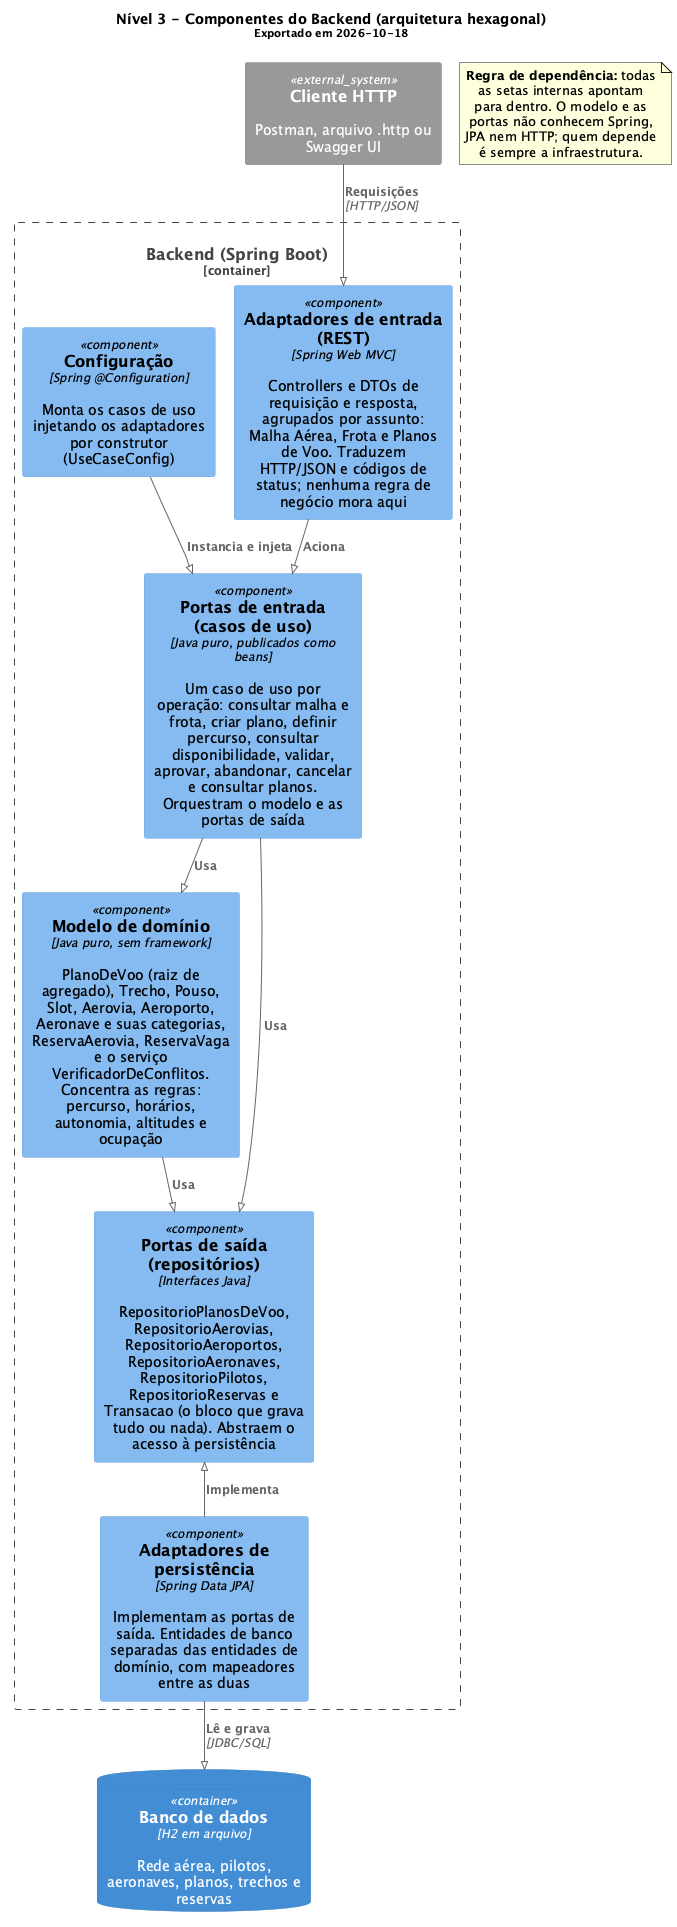
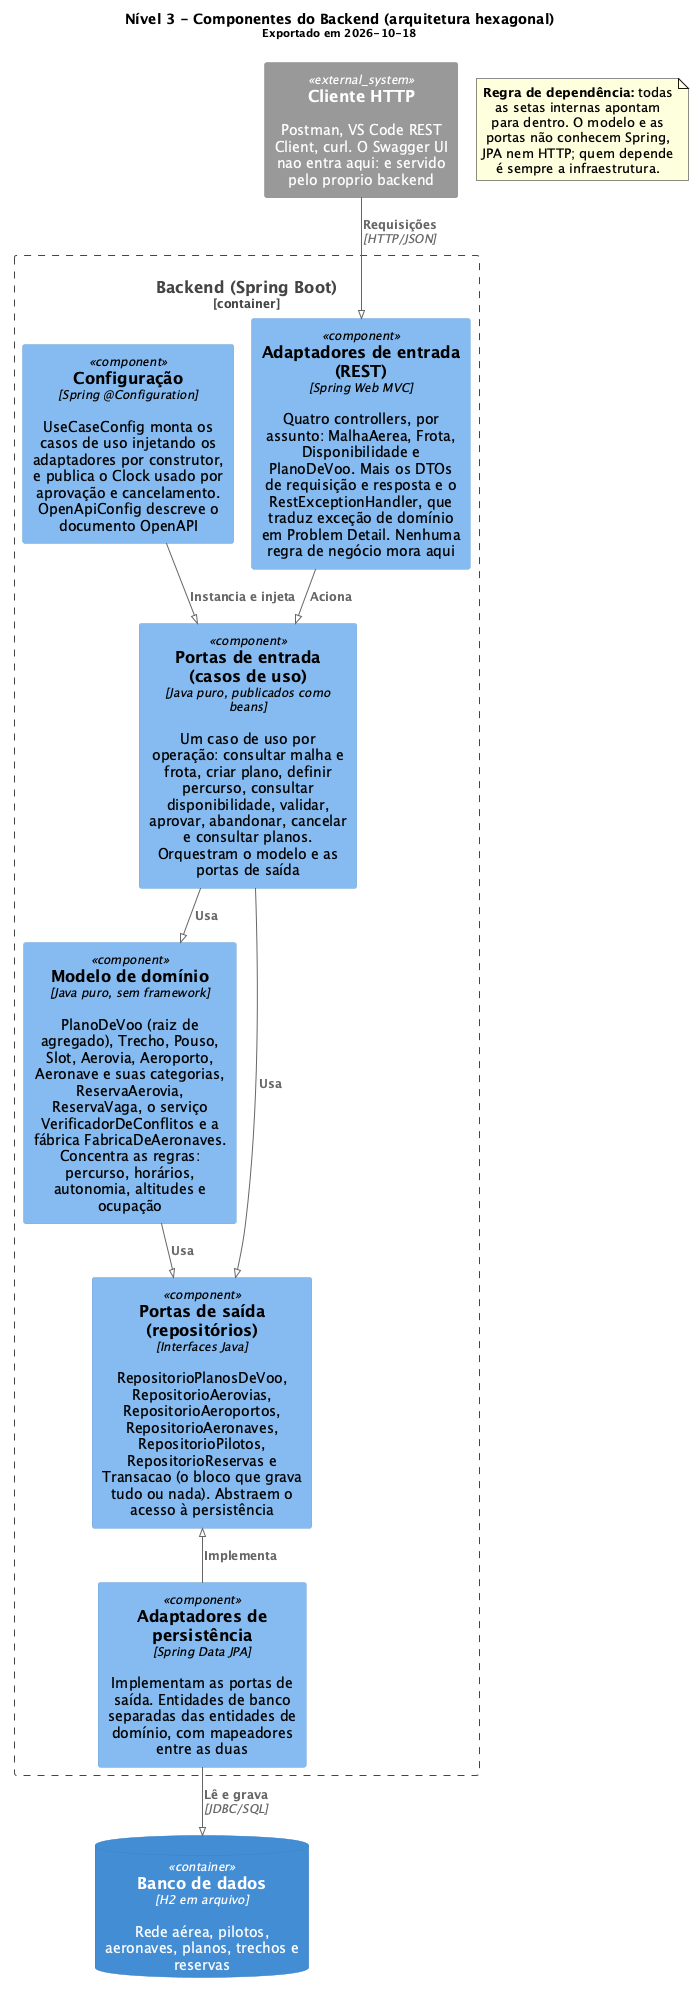
docs: sync the diagrams with the code and embed them in the readme
The domain diagram still showed aprovar without the agora parameter and had
no FabricaDeAeronaves. The component diagram listed three controllers out of
four, missed the RestExceptionHandler and the OpenApiConfig, and still treated
the Swagger UI as an external client. The four diagrams now render inline in
the README instead of hiding behind a folder link.

Changed region(s): [[0.031, 0.0, 0.9926, 0.9964], [0.1861, 0.0, 0.2482, 0.0311], [0.031, 0.1557, 0.062, 0.1868]]

diff --git a/README.md b/README.md
@@ -256,14 +256,33 @@ São escolhas, não defeitos — e estão registradas em
 
 | O que | Onde |
 |---|---|
-| Modelo de domínio (UML) | [`docs/dominio/`](docs/dominio/) |
+| Modelo de domínio (UML) | [`docs/dominio/modelo-dominio.png`](docs/dominio/modelo-dominio.png) — abaixo |
 | Casos de uso UC01–UC14 | [`docs/dominio/casos-de-uso.md`](docs/dominio/casos-de-uso.md) |
-| Diagramas C4 (contexto, containers, componentes) | [`docs/arquitetura/`](docs/arquitetura/) |
+| Diagramas C4 (contexto, containers, componentes) | [`docs/arquitetura/`](docs/arquitetura/) — abaixo |
 | Decisões arquiteturais (ADR) | [`docs/arquitetura/decisoes/`](docs/arquitetura/decisoes/) |
 | Padrões de desenvolvimento | [`docs/padroes-desenvolvimento.md`](docs/padroes-desenvolvimento.md) |
 | Plano de trabalho da equipe | [`docs/plano-de-trabalho.md`](docs/plano-de-trabalho.md) |
 | Guia de contexto para ferramentas de IA (não faz parte da entrega) | [`CLAUDE.md`](CLAUDE.md) e `CONTEXT_NEW.md` |
 | Enunciado | `PAS_TF_2026_2_PlanosDeVoo (1).md` |
+
+Cada `.png` é exportado do `.puml` ao lado, que é a fonte versionada. A data de
+exportação fica no rodapé da própria imagem, para flagrar diagrama defasado.
+
+### Modelo de domínio
+
+![Modelo de domínio](docs/dominio/modelo-dominio.png)
+
+### C4 nível 1 — Contexto
+
+![C4 nível 1, contexto](docs/arquitetura/c4-contexto.png)
+
+### C4 nível 2 — Containers
+
+![C4 nível 2, containers](docs/arquitetura/c4-containers.png)
+
+### C4 nível 3 — Componentes do backend
+
+![C4 nível 3, componentes](docs/arquitetura/c4-componentes.png)
 
 ## Arquitetura, em uma olhada
 
